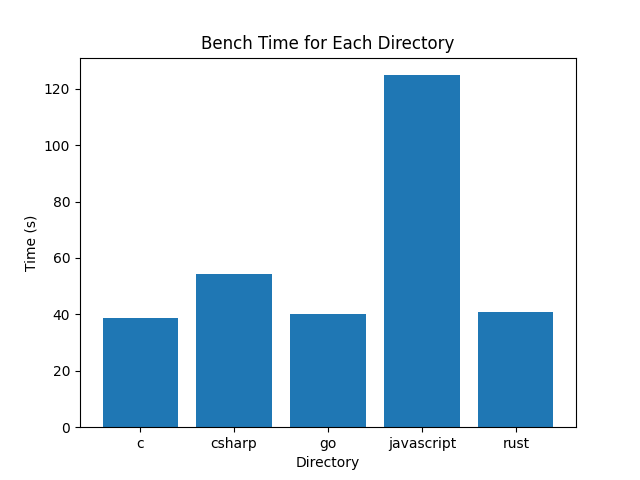
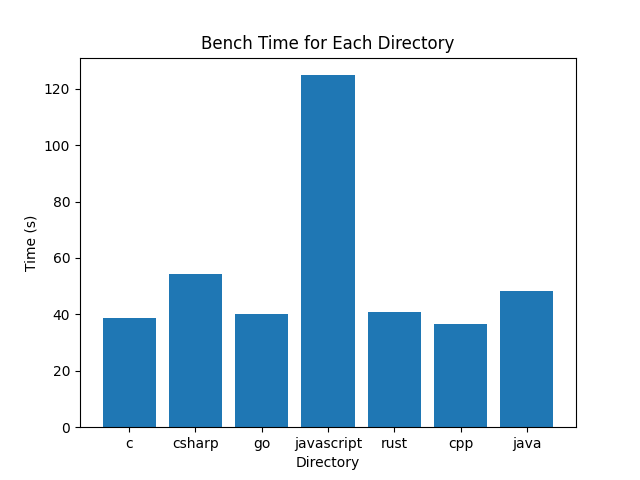
java!

diff --git a/table.md b/table.md
@@ -5,3 +5,5 @@
 | go          |  40.1474 |
 | javascript  | 124.82   |
 | rust        |  40.9028 |
+| cpp         |  36.707  |
+| java        |  48.4277 |
